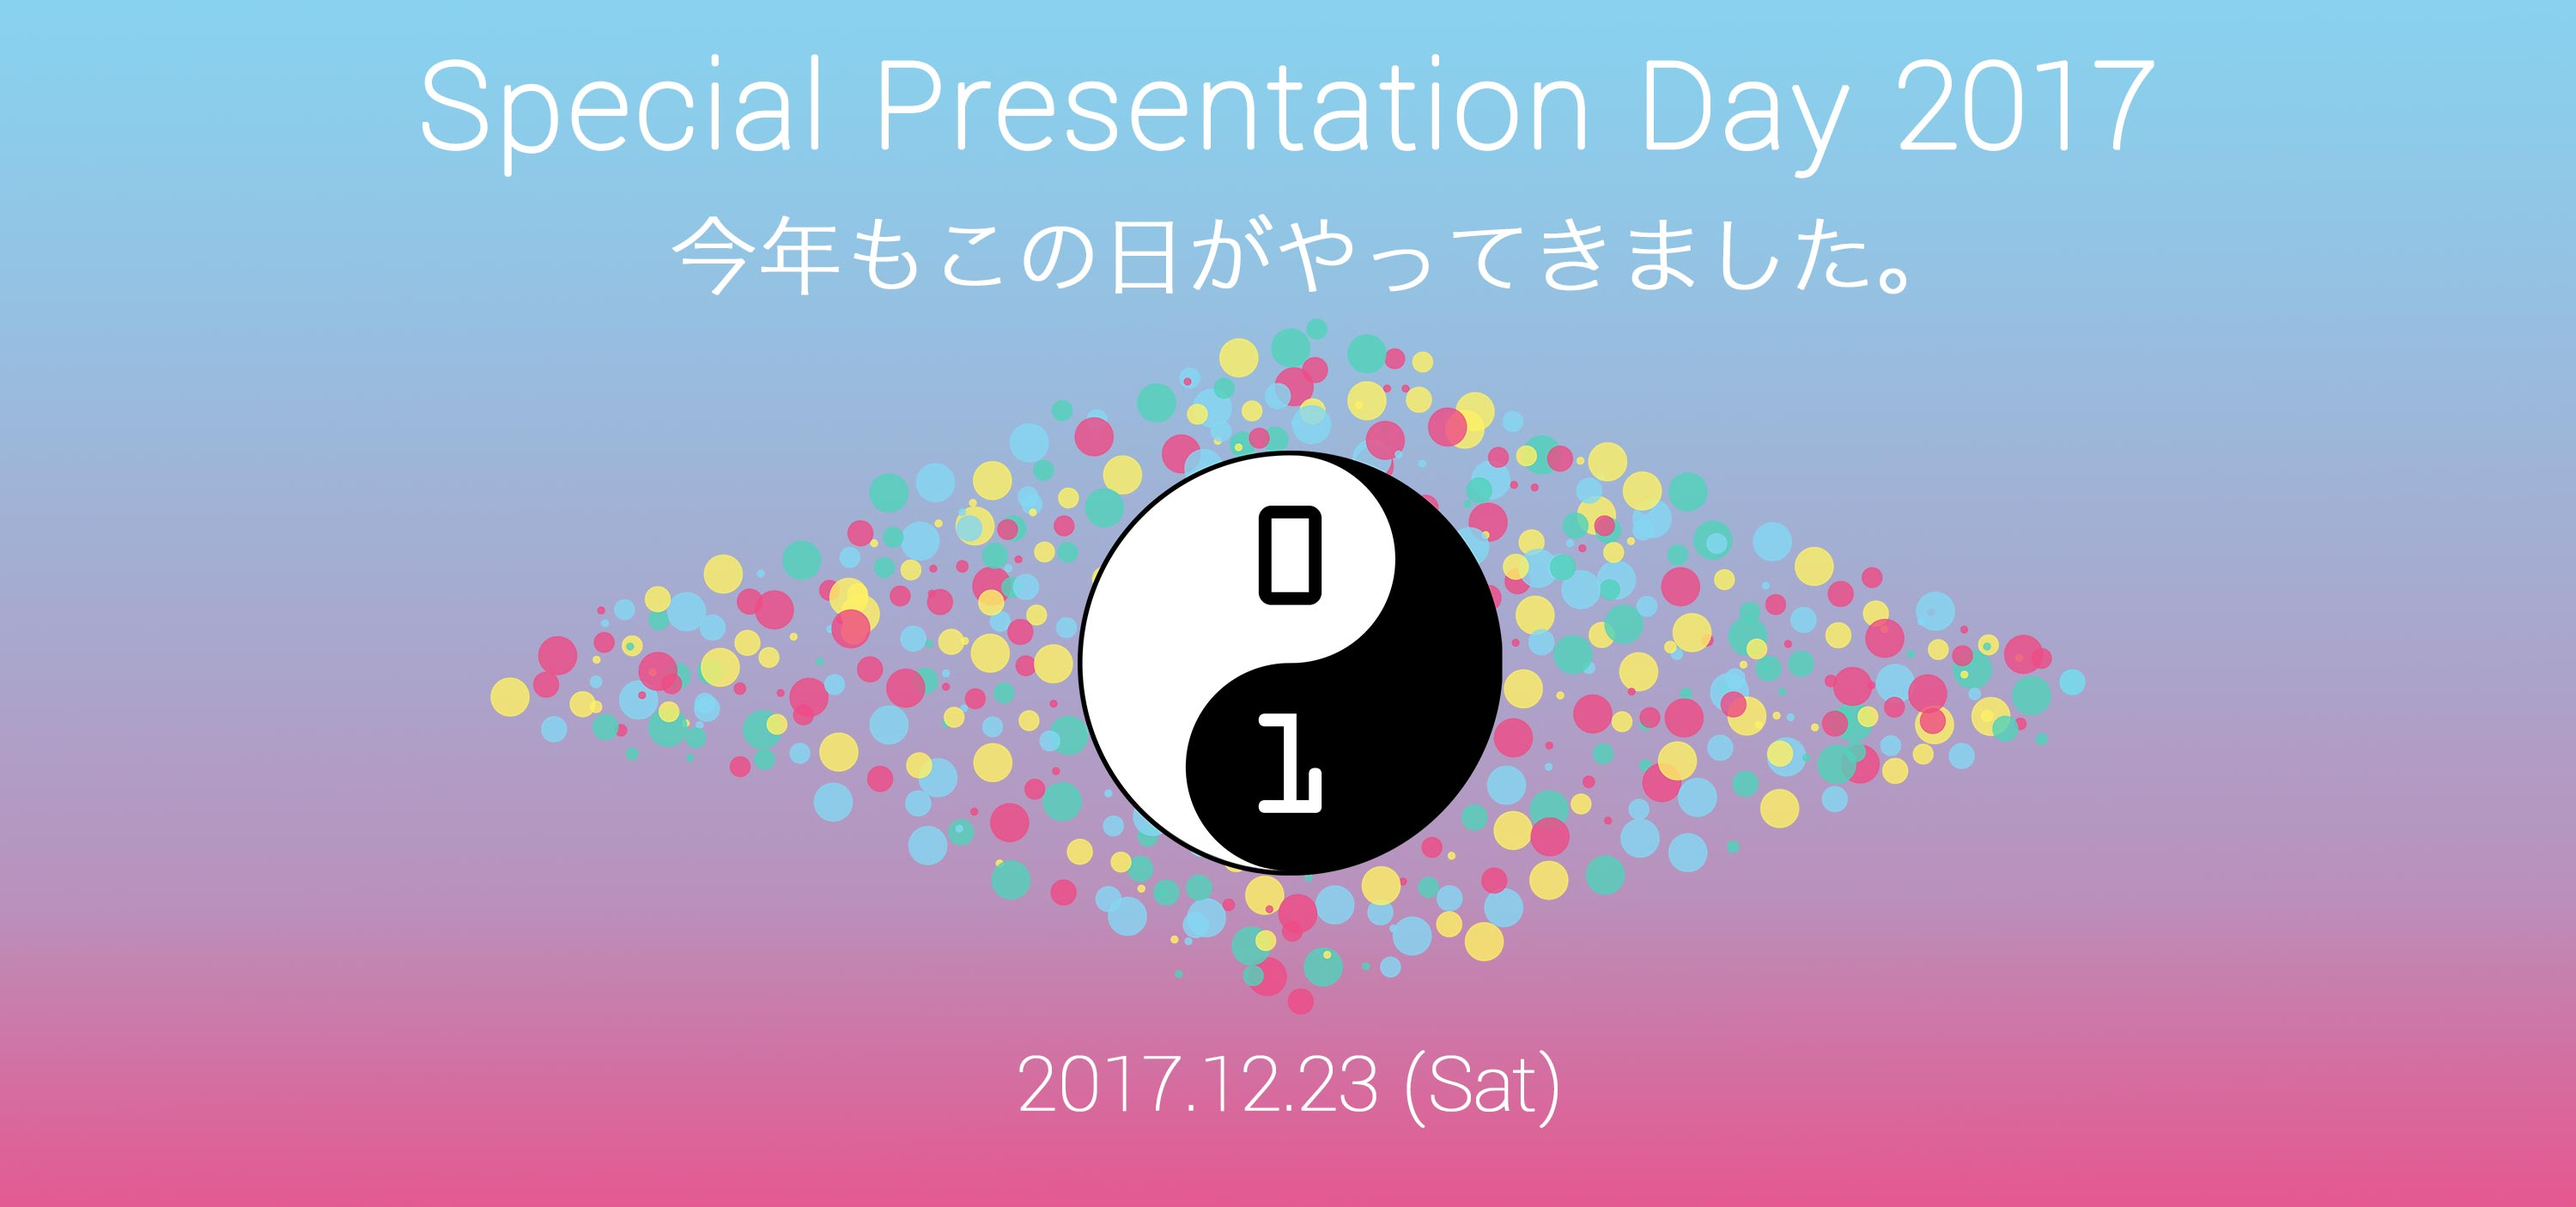
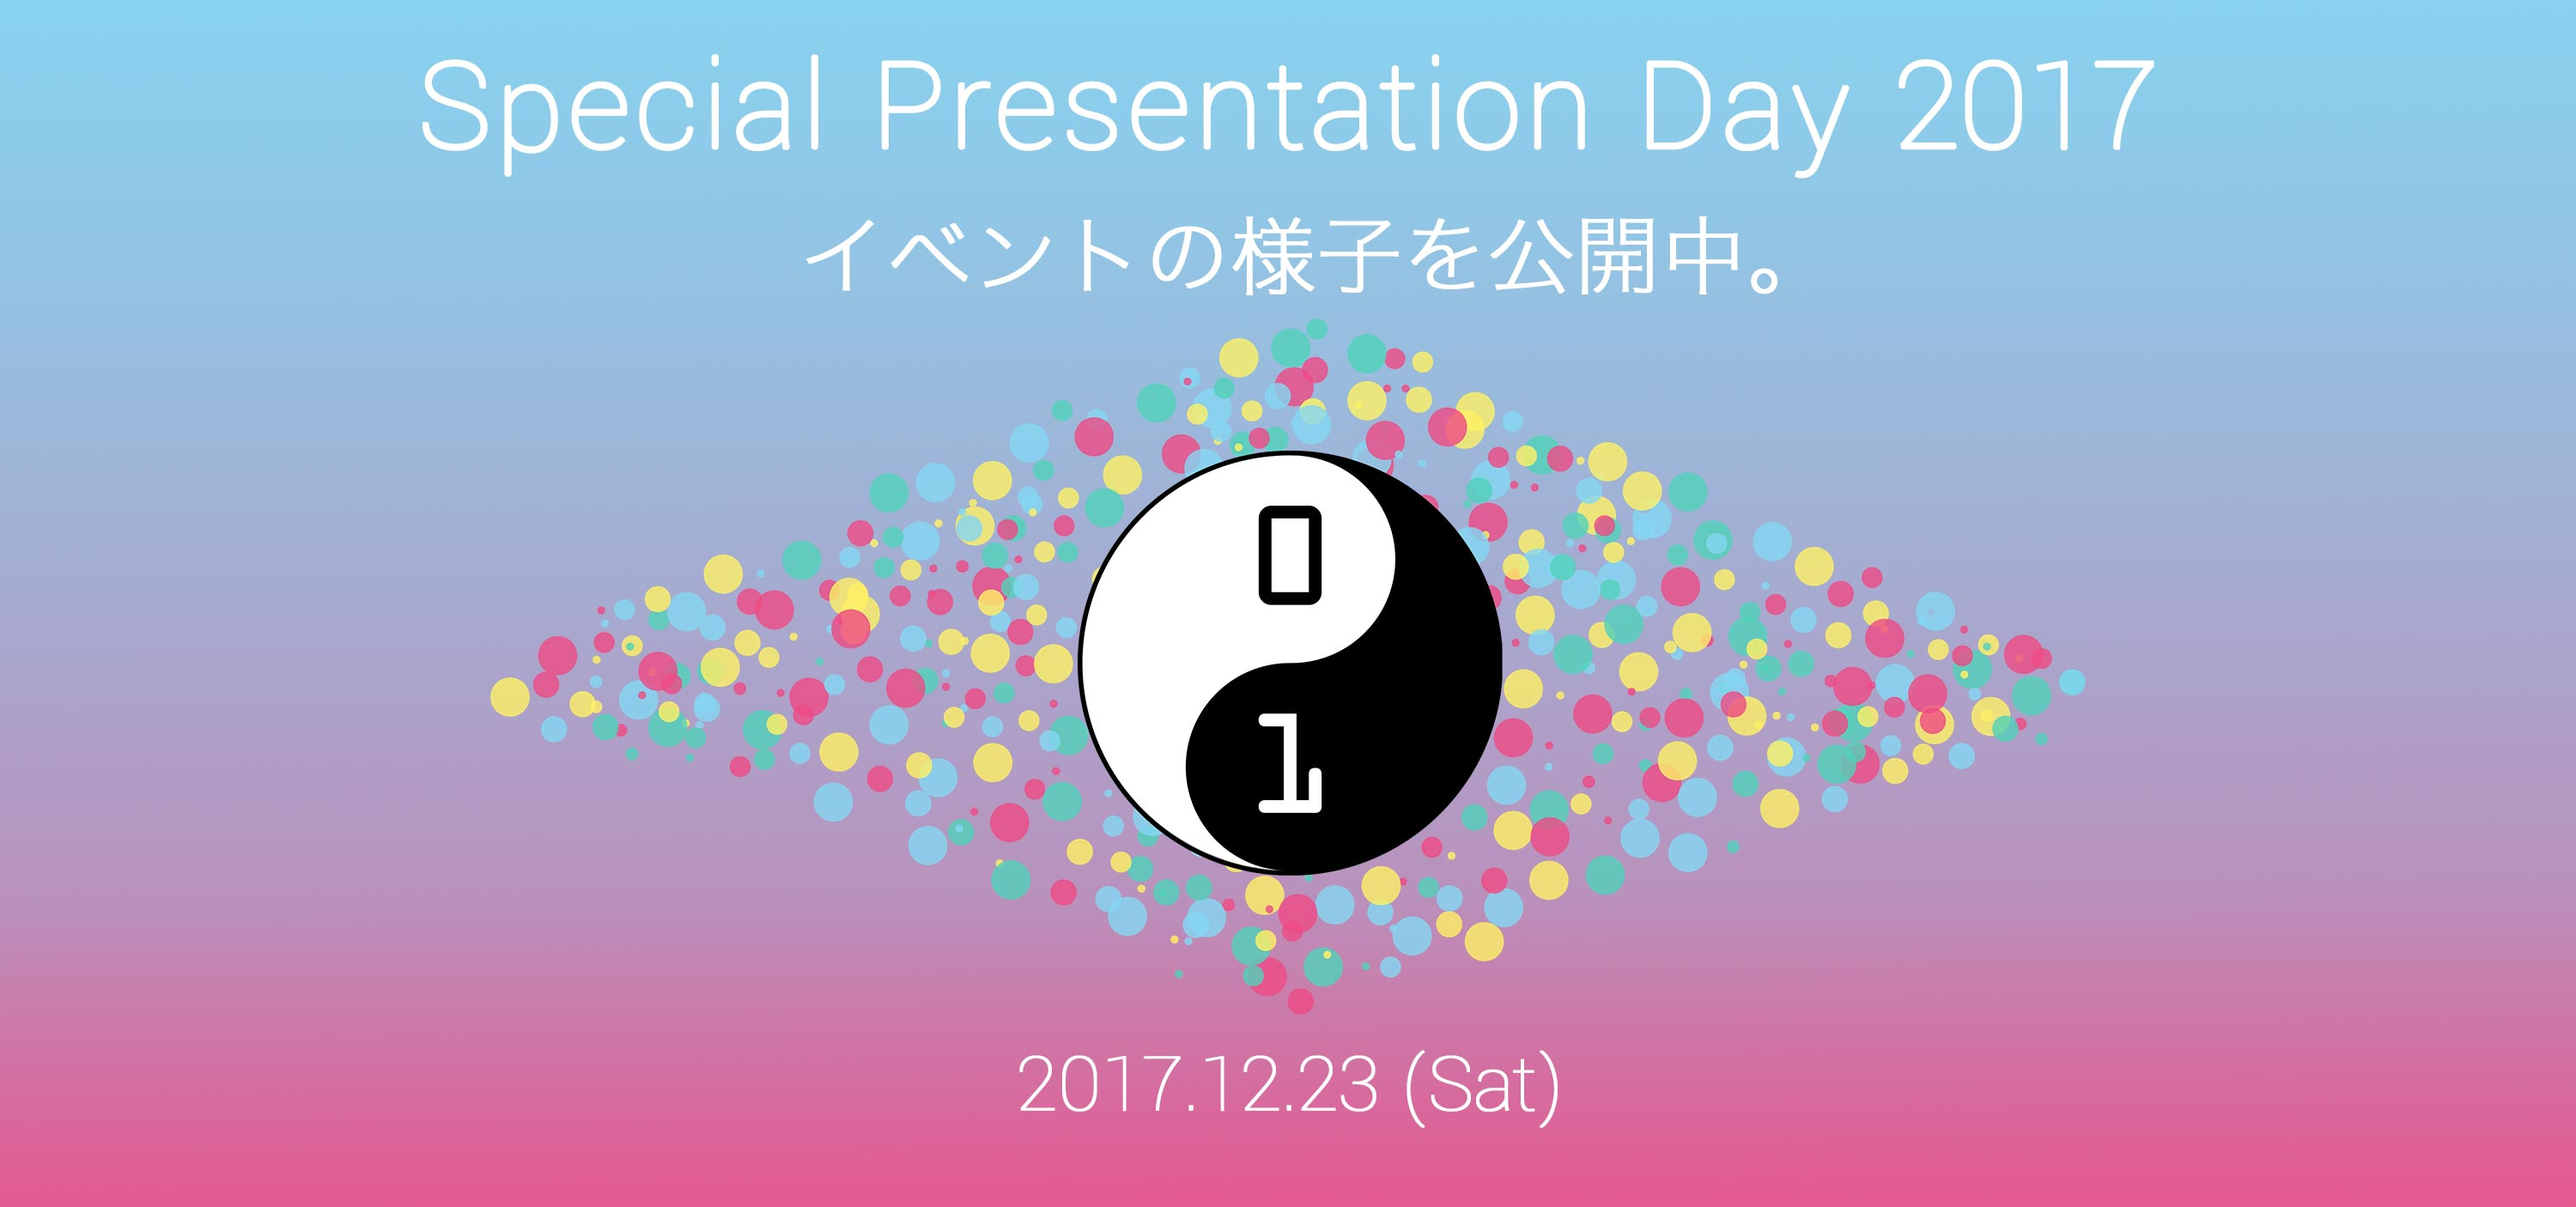
写真の変更とSPDのキャッチの変更

Changed region(s): [[0.248, 0.1835, 0.744, 0.2447]]

diff --git a/event/spd/2017/style/flexslider.css b/event/spd/2017/style/flexslider.css
@@ -53,7 +53,7 @@
   display: block;
 }
 .flexslider .slides:after {
-  content: "\0020";
+  content: "";
   display: block;
   clear: both;
   visibility: hidden;

diff --git a/index.php b/index.php
@@ -113,7 +113,7 @@
 						<div>
 							<p>
 								Special Presentation Day 2017<br>
-								2017.12.23 (Sat)
+								イベントの詳細を公開中。
 							</p>
 							<img src='image/eventLogos/spd2017.png'>
 						</div>
